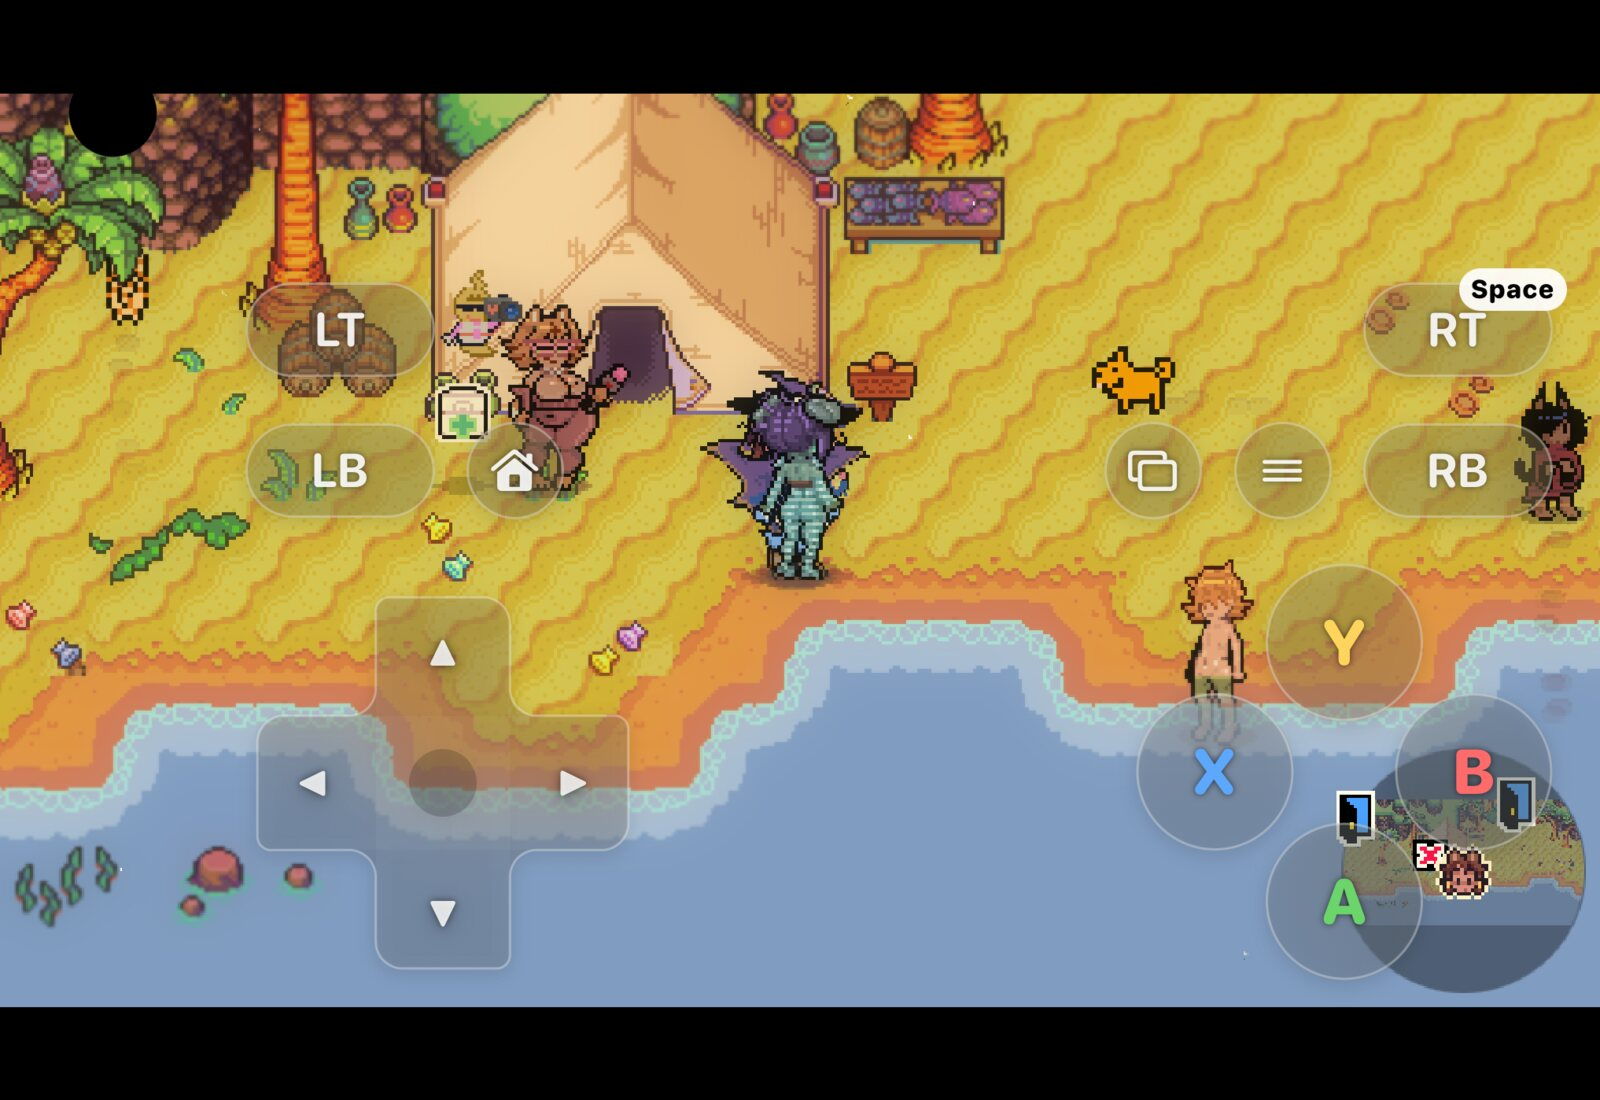
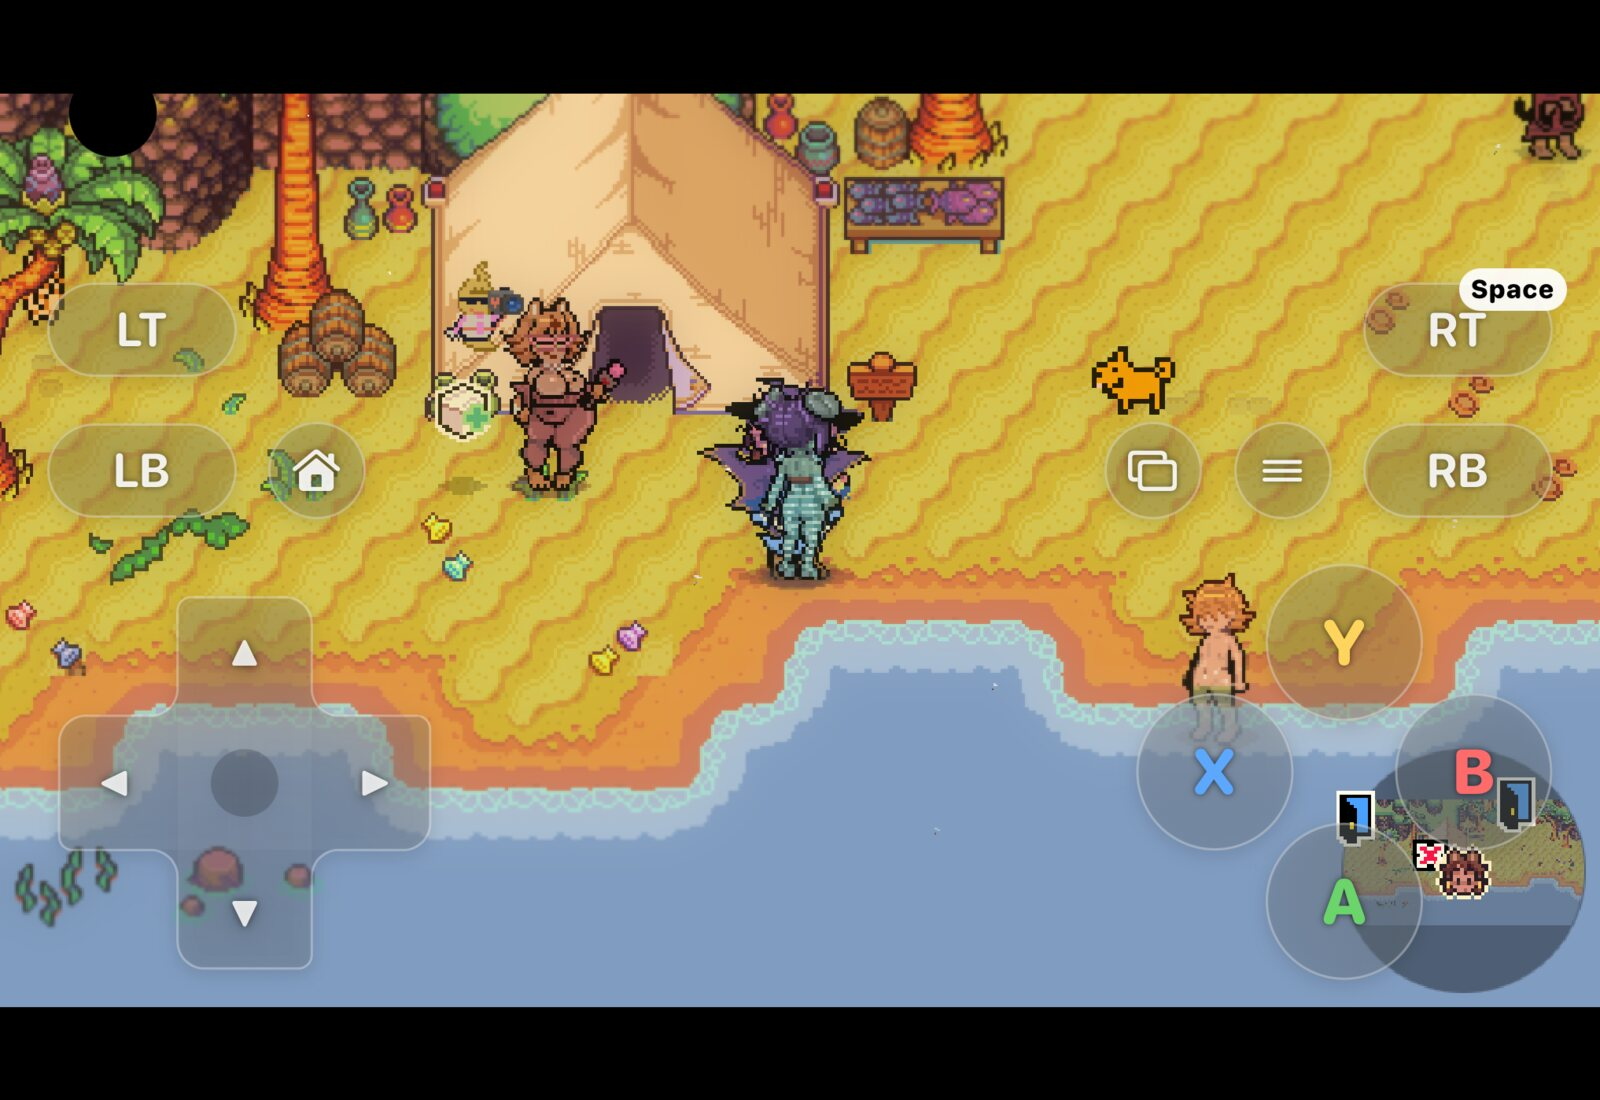
README: retake the Duo held sideways with the full-width gamepad
The same scene as before, No Socks RPG on the beach map at Full width with
the camera on the left, now with the touch gamepad laid out across the whole
display. The library notes say "a few points" for the face buttons' step off
the camera housing, since it depends on the gamepad's size.

diff --git a/docs/library.md b/docs/library.md
@@ -101,7 +101,7 @@ VNDegen follows the [DuoApps patterns](https://www.duoapps.com/patterns/) for th
 - **Columns.** On a display that folds, the grid and the header list show an even number of columns, so the fold falls between two, and while partly folded the gap there widens to the fold's width. On the inner display held upright the grid shows six columns where it would otherwise show five.
 - **Game page.** The banner follows the width, between 180 and 540 points tall, and never the screen's height.
 - **The VNDegen menu** scrolls when it is taller than the screen, as on the closed Duo held on its side, so every button stays in reach.
-- **Games held sideways.** Where the window keeps a column for a camera down one side, as on the closed Duo held on its side, a game uses the display's full width by default, fitted to its shape and centred, and the camera may cover a corner of it. **Game picture** in Settings, shown only in that pose, and the Picture row of the VNDegen menu switch to **Clear of the camera**: the game fits either the full width below the camera's housing (above it when the camera is at the bottom) or the area beside the camera's column, whichever shows its picture larger, so none of it is covered. A 4:3 game sits beside the column and a wider one below the housing. Until the game reports its picture size, and for engines that don't report one, it sits beside the column. At Full width the touch gamepad and the small menu button spread across the whole display as on an iPhone in landscape, with the same margin from each edge. A button that would cover the camera or its housing, which the system reports as regions to keep clear, moves the shorter way off it and never onto another button: with the camera at the bottom right, the A, B, X, Y cluster sits 6 pt further left, and the small menu button in the camera's corner sits just below the housing (above it when the camera is at the bottom). At Clear of the camera they stay inside the safe area. Switching, rotating, and opening or closing the Duo keep the game running.
+- **Games held sideways.** Where the window keeps a column for a camera down one side, as on the closed Duo held on its side, a game uses the display's full width by default, fitted to its shape and centred, and the camera may cover a corner of it. **Game picture** in Settings, shown only in that pose, and the Picture row of the VNDegen menu switch to **Clear of the camera**: the game fits either the full width below the camera's housing (above it when the camera is at the bottom) or the area beside the camera's column, whichever shows its picture larger, so none of it is covered. A 4:3 game sits beside the column and a wider one below the housing. Until the game reports its picture size, and for engines that don't report one, it sits beside the column. At Full width the touch gamepad and the small menu button spread across the whole display as on an iPhone in landscape, with the same margin from each edge. A button that would cover the camera or its housing, which the system reports as regions to keep clear, moves the shorter way off it and never onto another button: with the camera at the bottom right, the A, B, X, Y cluster sits a few points further left, and the small menu button in the camera's corner sits just below the housing (above it when the camera is at the bottom). At Clear of the camera they stay inside the safe area. Switching, rotating, and opening or closing the Duo keep the game running.
 
 Opening, closing, and folding keep the library's place, an open sheet, a game page's position, and a running game.
 

diff --git a/README.md b/README.md
@@ -58,7 +58,7 @@ The view button in the top bar switches between Header list, Capsule rows, Featu
 
 <p align="center">
   <img src="docs/screenshots/duo-front-landscape-library.jpg" width="410" alt="iPhone Duo closed and held on its side, on the front display, in Header list: two columns of header art, with the side bar of buttons below the camera on the left">
-  <img src="docs/screenshots/duo-front-landscape-game.jpg" width="410" alt="iPhone Duo closed and held on its side, playing No Socks RPG, an RPG Maker MZ game, on the beach map: the game fills the full width with the camera over its top left corner, and the touch gamepad's D-pad, A B X Y, shoulder, and home buttons sit over it">
+  <img src="docs/screenshots/duo-front-landscape-game.jpg" width="410" alt="iPhone Duo closed and held on its side, playing No Socks RPG, an RPG Maker MZ game, on the beach map: the game fills the full width with the camera over its top left corner, and the touch gamepad's D-pad, A B X Y, shoulder, and home buttons sit over it across the full width">
   <br><sub>iPhone Duo closed, front display on its side: library &nbsp;·&nbsp; No Socks RPG at Full width with the touch gamepad</sub>
 </p>
 
